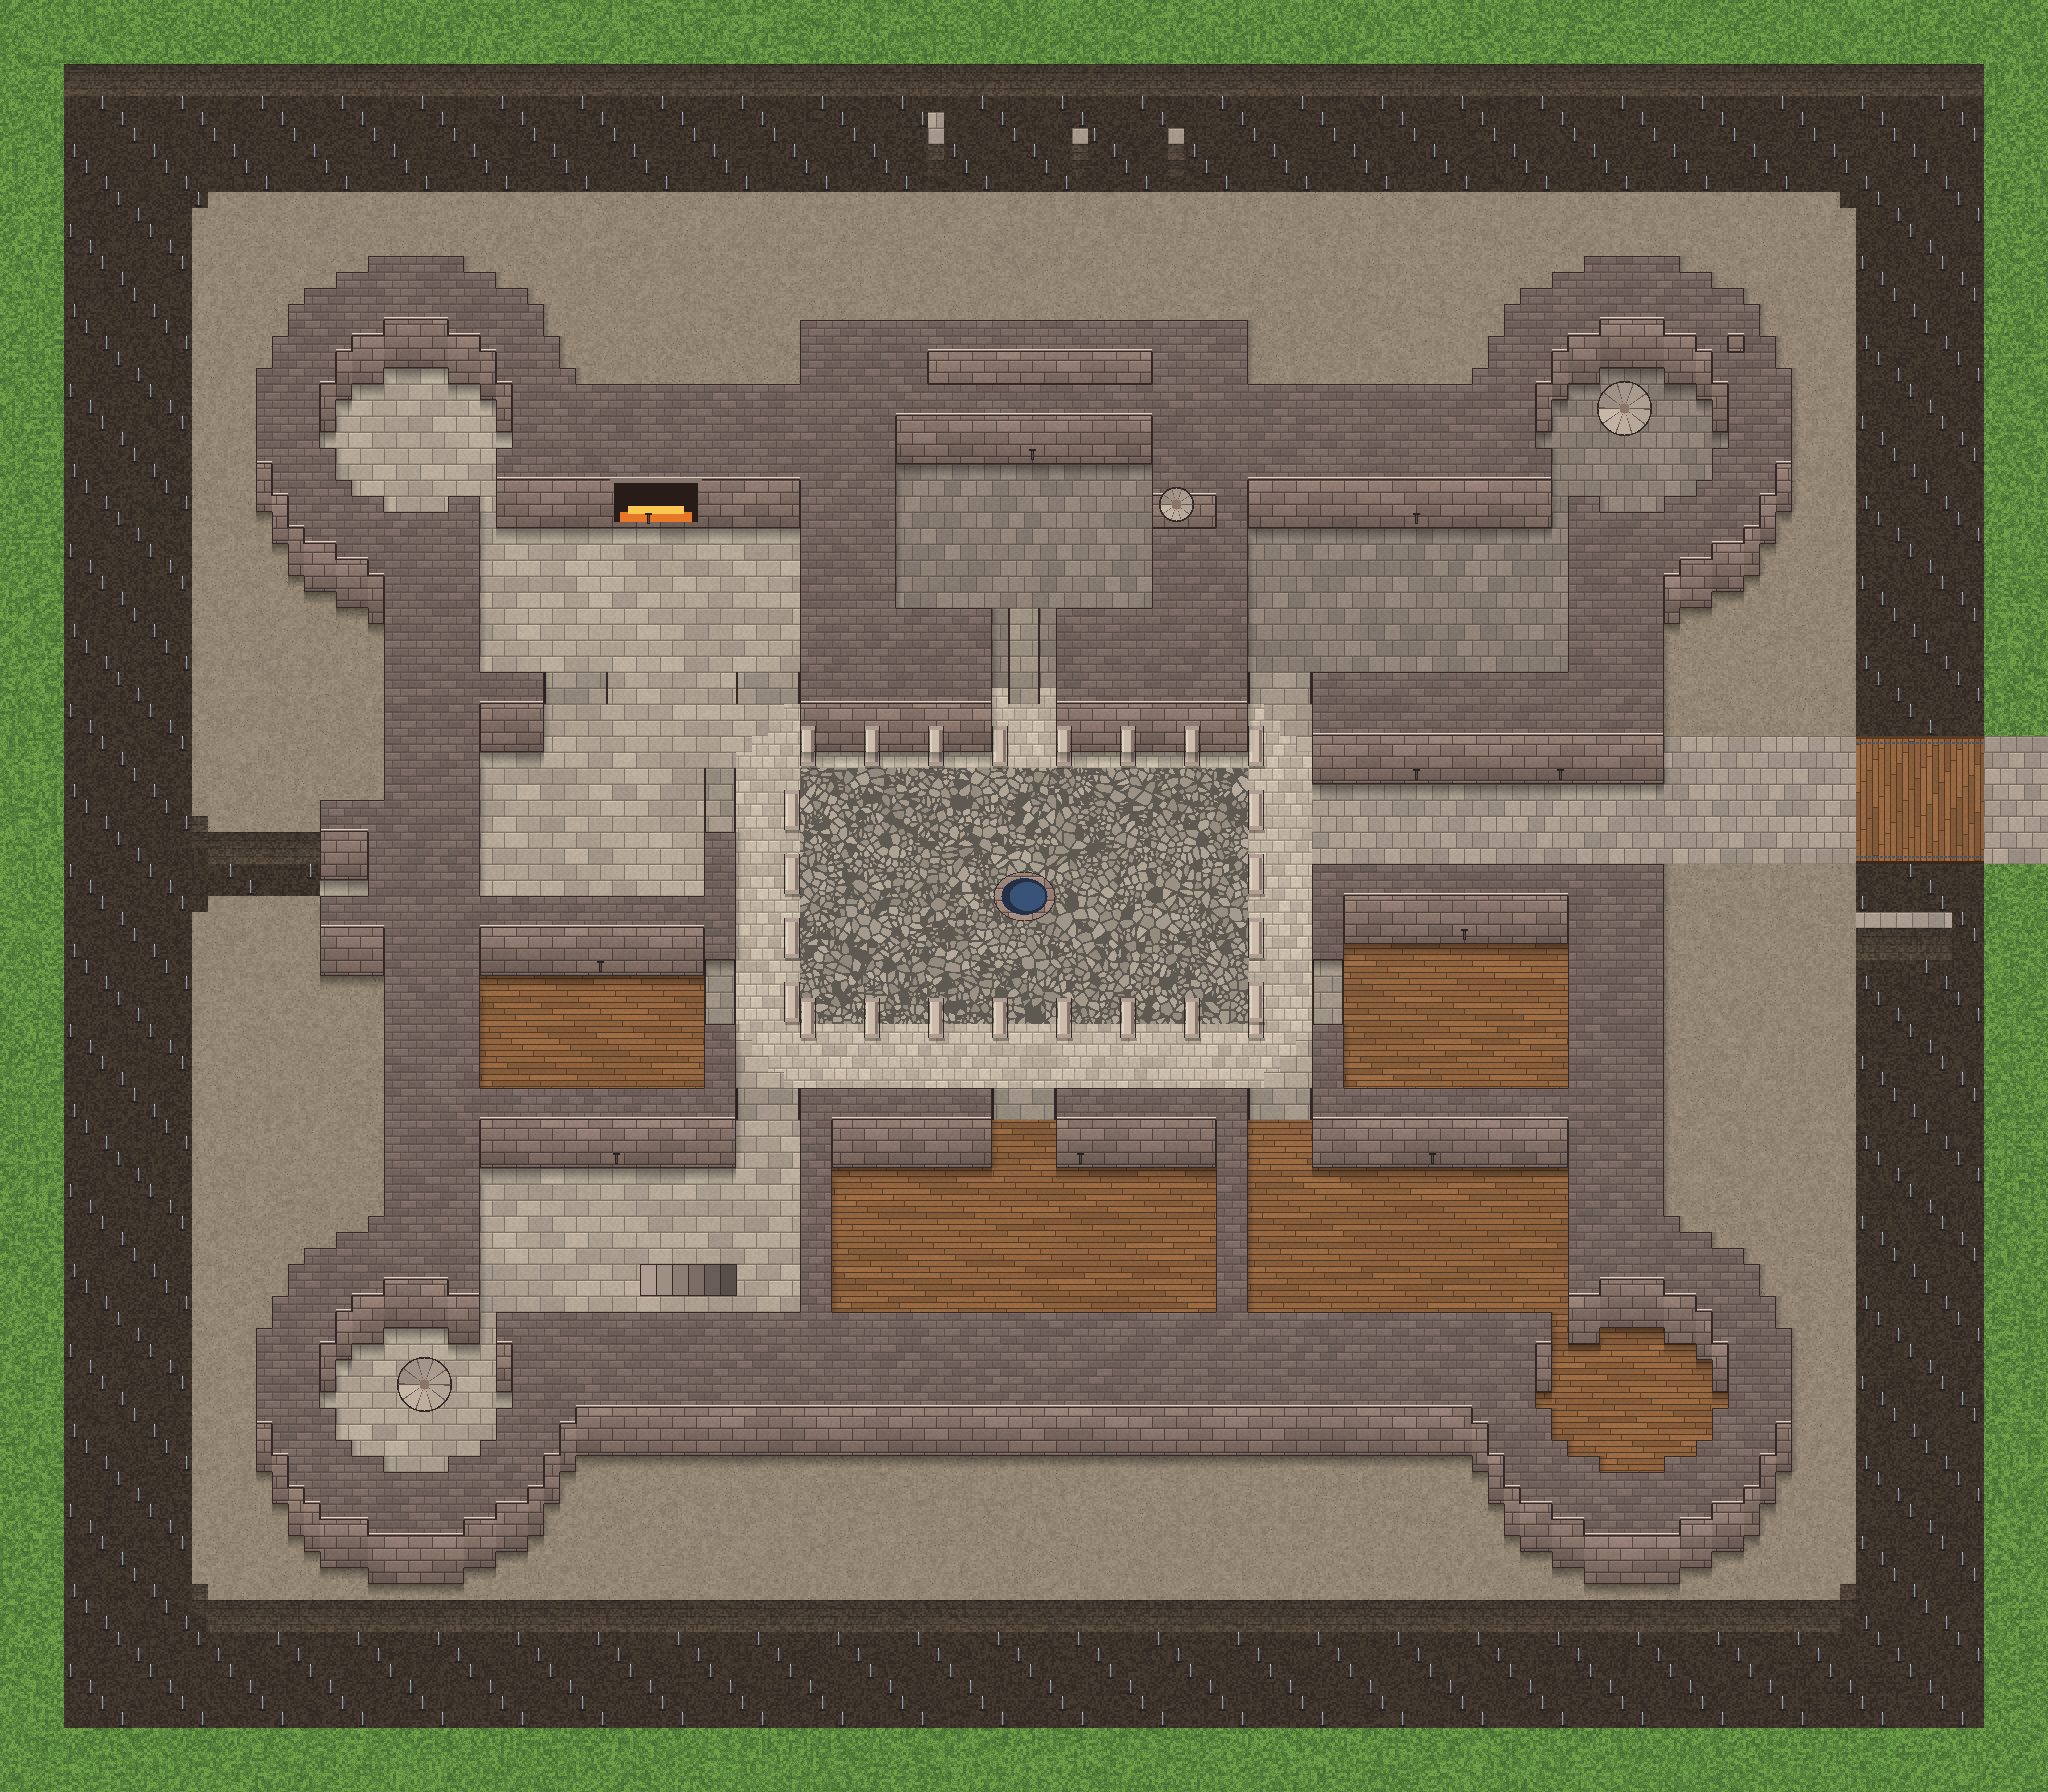
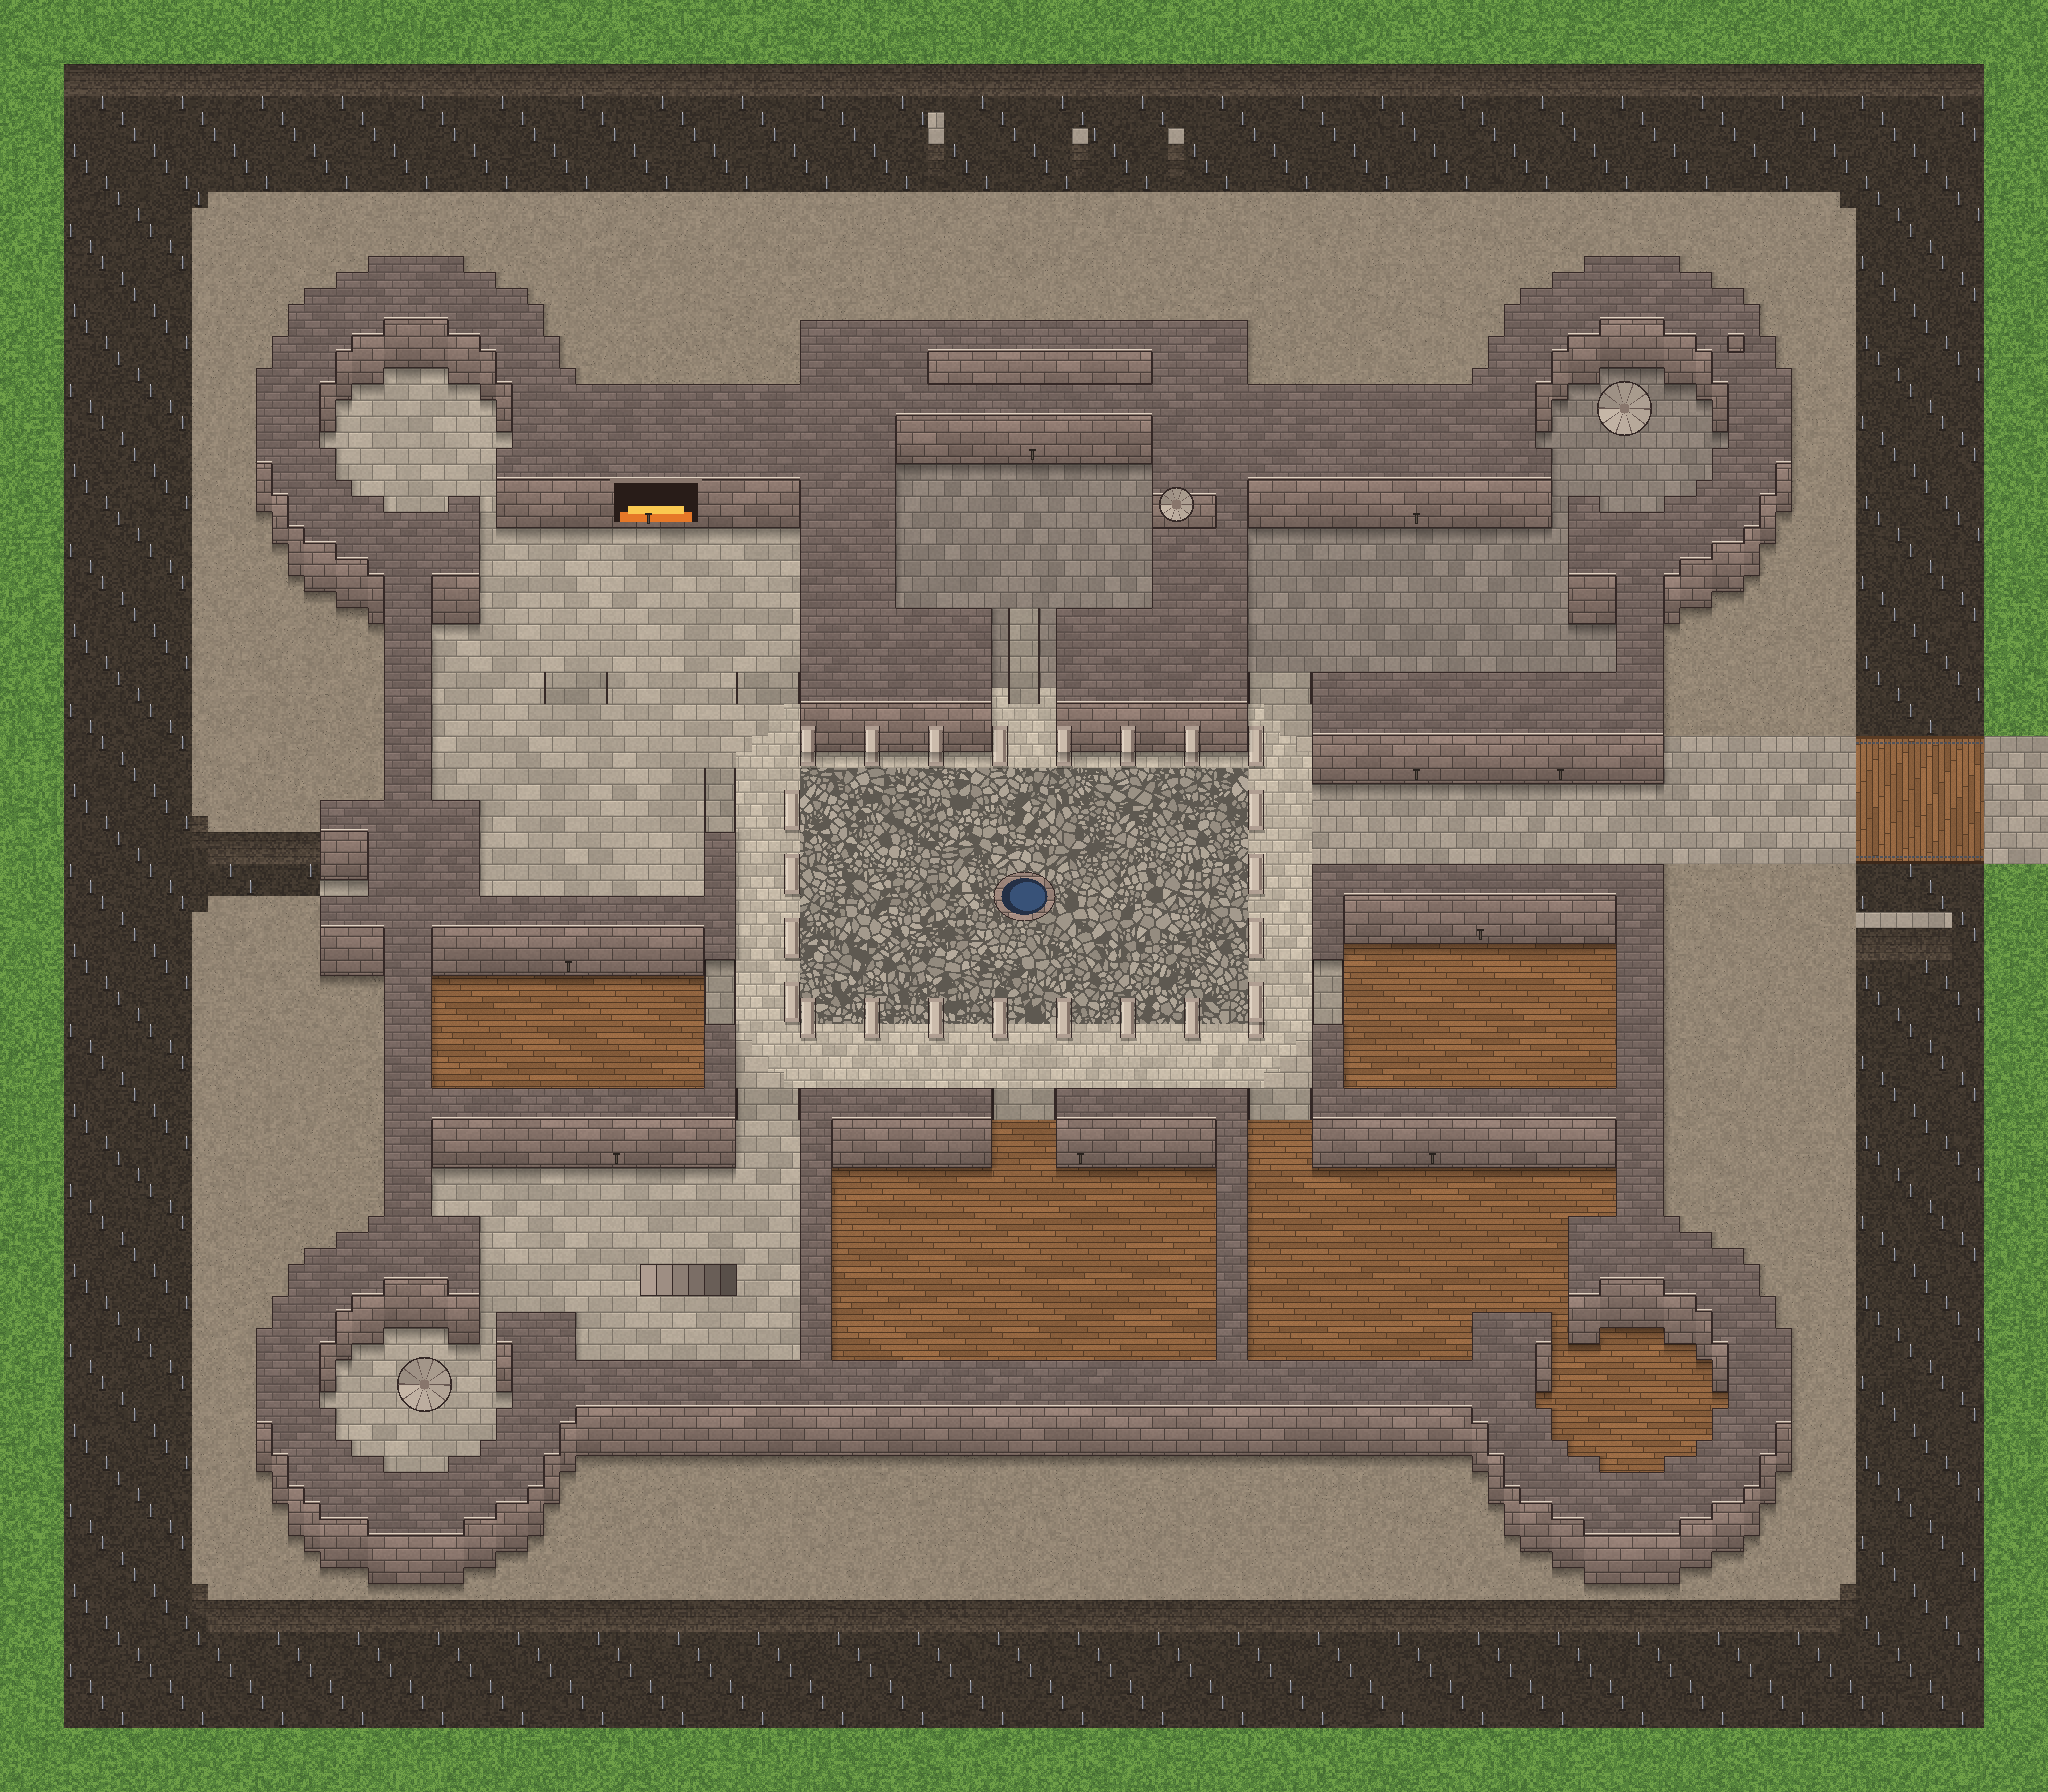
Holdfast ground floor: outer curtain thinned from 6 to 3 tiles on the straight runs (rooms grow, outside size unchanged)
Claude-Session: https://claude.ai/code/session_01GSamoHXsCumctgS8PFsM3M

diff --git a/tools/build_holdfast_gf.py b/tools/build_holdfast_gf.py
@@ -84,6 +84,56 @@ g[np.isin(g, ['room', 'cloister'])] = 'room'
 g[cl] = 'cloister'
 g[(g == 'door') & ~body] = 'gate'
 
+# ------------------------------------------------------------------ thinner outer curtain (user: more room inside,
+# same outside size). Only the straight curtain runs between the towers are thinned: on each side, every row/column
+# whose castle edge lies on that side's straight line is scanned inward; a wall run of the usual curtain thickness
+# with floor right behind it is cut to CURTAIN tiles and the rest becomes floor of the room behind. Tower walls, inner
+# walls (longer runs) and junctions (unusual run lengths) are left as they are.
+CURTAIN = int(os.environ.get('CURTAIN', 3))
+flo_ = np.isin(g, ['room', 'cloister', 'yard', 'door'])
+def thin_side(get_line, n_lines, length):
+    runs = []
+    edges = []
+    for i in range(n_lines):
+        b_ = get_line(body, i); w_ = get_line(g == 'wall', i)
+        idx = np.where(b_)[0]
+        edges.append(idx[0] if len(idx) else -1)
+    ev = np.array(edges); straight = np.bincount(ev[ev >= 0]).argmax()
+    for i in range(n_lines):
+        if ev[i] != straight: continue
+        w_ = get_line(g == 'wall', i); f_ = get_line(flo_, i)
+        L = 0
+        while straight + L < length and w_[straight + L]: L += 1
+        if straight + L < length and f_[straight + L]: runs.append((i, L))
+    if not runs: return 0
+    mode = np.bincount([L for _, L in runs]).argmax(); n = 0
+    for i, L in runs:
+        if mode - 3 <= L <= mode + 4 and L > CURTAIN:          # +4: short spurs on the curtain go too
+            for k in range(CURTAIN, L):
+                yield_ = (i, straight + k)
+                set_tile(yield_); n += 1
+    return n
+cur = None
+def set_tile(t):
+    y, x = cur(*t); g[y, x] = 'room'
+g_before_thin = g.copy()
+tot = 0
+cur = lambda i, k: (i, k);              tot += thin_side(lambda m, i: m[i, :], H, W)            # west
+cur = lambda i, k: (i, W - 1 - k);      tot += thin_side(lambda m, i: m[i, ::-1], H, W)         # east
+cur = lambda i, k: (k, i);              tot += thin_side(lambda m, i: m[:, i], W, H)            # north
+cur = lambda i, k: (H - 1 - k, i);      tot += thin_side(lambda m, i: m[::-1, i], W, H)         # south
+# never let the new floor join two rooms that were separate (e.g. a tower and the room beside it): revert such groups
+newf = (g == 'room') & (g_before_thin == 'wall')
+ofl = np.isin(g_before_thin, ['room', 'cloister', 'yard', 'door'])
+olab, _ = ndimage.label(ofl)
+nlab, nn = ndimage.label(newf)
+for i in range(1, nn + 1):
+    m = nlab == i
+    touch = set(np.unique(olab[ndimage.binary_dilation(m) & ~m])) - {0}
+    if len(touch) > 1:
+        g[m] = 'wall'; tot -= int(m.sum())
+print('curtain thinned to', CURTAIN, 'tiles:', tot, 'tiles became floor')
+
 # ------------------------------------------------------------------ rooms (for floor style + names)
 floor = np.isin(g, ['room', 'door'])
 rl, nr = ndimage.label(np.isin(g, ['room']))
